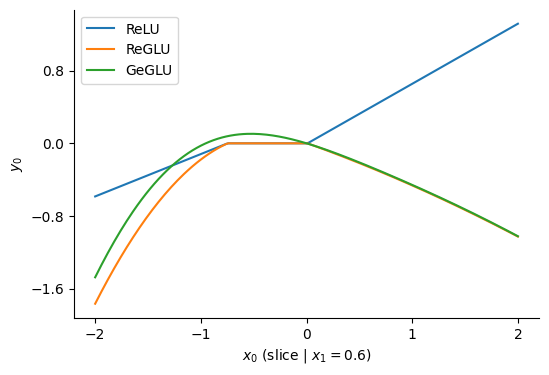
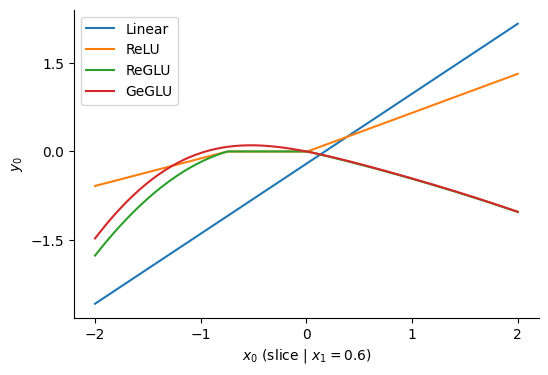
Publish

diff --git a/2024-04-transformers/article.html b/2024-04-transformers/article.html
@@ -253,11 +253,20 @@ q, k = embed_rotate(q, k, theta=p.rope_theta)</code></pre>
 <p>First, make two separate projections (dot products with trained parameter matrices) to get two 16384-vectors. One of these vectors, called the <em>gate</em> is passed through a nonlinear function called <em>gelu</em> that applies to each element. We'll treat the function as a black box, but to a first approximation, <code>gelu(x)</code> is quite close to <code>max(0, x)</code>. The gate and other vector are multiplied element-by-element, then another trained down-projection produces the result, a 2048-vector.</p>
 <details>
 <p><summary>Understanding the MLP</summary></p>
-<p>The MLP is a function from a 2048-vector representing a single token to a 2048-vector. The code shown above runs in parallel over the sequence axis, but unlike in attention, each token is processed independently. In this section, we'll build up the complex behaviour of Gemma's GeGLU MLP with a example based on 2-vectors (and a 3-vector inside the MLP).</p>
-<p><strong>A. ReLU</strong></p>
-<p>We start with a simplified version specified by the original transformer model, using the <em>rectified linear unit</em> or ReLU, <code>relu(a) = max(0, a)</code>:</p>
+<p>The MLP is a function from a 2048-vector representing a single token to a 2048-vector. The code shown above runs in parallel over the sequence axis, but unlike in attention, each token is processed independently. In this section, we'll build up the complex behaviour of Gemma's GeGLU MLP with a tiny example based on 2-vectors (and a 3-vector inside the MLP).</p>
+<p><em>Note that the acronym MLP stands for multi-layer perceptron, which is slightly old-fashioned language to talk about a chain of dot product (projections) and nonlinearities.</em></p>
+<p><strong>A. Linear</strong></p>
+<p>We start with a simple linear projection (dot product) from input to output, specified by a random $2 \times 2$ matrix. Each output component is a weighted sum of the inputs. The code is simply:</p>
+<pre><code class="language-python">y = x @ proj
+# x.shape = y.shape = (2,)</code></pre>
+<p>If we look at the first component of the output as a function of the inputs, we see:</p>
+<p><img alt="3D surface plot showing a flat slope." class="img-fluid" src="img/mlp_linear.png" /></p>
+<p>This is what a linear projection always looks like — a flat slope. It's certainly possible for this function to capture some interesting properties of the data, especially when it works on 2048-vectors rather than 2-vectors. However, it will become much more powerful with a few additions.</p>
+<p><strong>B. ReLU</strong></p>
+<p>The core idea of the MLP is that we wish to introduce <em>depth</em> into the model, a sequence of layers that transform the input in steps. However, the dot product has the property that a sequence of dot products can be reduced to a single dot product, i.e. there exists a <code>proj_b</code> such that <code>(x @ proj_1) @ proj_2 == x @ proj_b</code>.</p>
+<p>Sequences of dot products need to be broken up if they're going to be any more powerful than the simple linear projection we've already seen. The simplest way to do this is by transforming each element of the vector individually by an elementwise nonlinear function. One such function is the <em>rectified linear unit</em> or ReLU, <code>relu(a) = max(0, a)</code>:</p>
 <p><img alt="Plot of z = relu(a), with a flat portion below zero, then a linear portion above zero." class="img-fluid" src="img/relu.png" /></p>
-<p>Our ReLU MLP runs:</p>
+<p>Our ReLU MLP now runs:</p>
 <pre><code class="language-python">z = relu(x @ gate_proj)
 y = z @ down_proj
 # x.shape = y.shape = (2,)
@@ -267,14 +276,14 @@ y = z @ down_proj
 <p>In the top right off-white segment, we have all three components of <code>z</code> "active" (not saturating at zero), so in this region we have <code>z = x @ gate_proj</code> (the ReLU disappears). In the yellow region on the left, we know the blue component <code>z[2]</code> is saturating, so in this region we have <code>z = (x @ gate_proj) * [1, 1, 0]</code>, effectively removing that component. Within each coloured region, <code>z</code> is a linear function of <code>x</code>.</p>
 <p>Once we run the down-projection, each component of <code>y</code> is a dot product between <code>z</code> and a vector of trained weights, so the result remains piecewise-linear, transitioning at the boundaries we've just seen:</p>
 <p><img alt="3D surface plot showing a piecewise linear function of two input components. Each piece is coloured as per the pinwheel map above." class="img-fluid" src="img/mlp_relu.png" /></p>
-<p><strong>B. ReGLU</strong></p>
+<p><strong>C. ReGLU</strong></p>
 <p>These piecewise linear functions are surprisingly powerful already — the pretraining procedure can manipulate the transitions as well as the slopes of each region. But we might propose more power by making each region quadratic rather than linear. This idea gives us the <em>gated linear unit</em> (GLU):</p>
 <pre><code class="language-python">z = relu(x @ gate_proj) * (x @ up_proj)
 y = z @ down_proj</code></pre>
 <p>With the same <code>gate_proj</code>, the regions in this version are exactly the same as before; the only difference is that within each region, we have a quadratic function of <code>x</code>.</p>
 <p><img alt="3D surface plot showing a piecewise quadratic function of two input components." class="img-fluid" src="img/mlp_reglu.png" /></p>
 <p>Notice we can still have sharp edges at the region boundaries, but within each region the function is now curved.</p>
-<p><strong>C. GeGLU</strong></p>
+<p><strong>D. GeGLU</strong></p>
 <p>The final change is to substitute the Gaussian error linear unit (GELU) for the ReLU. The definition isn't too important for our discussion, just that it looks like a smoother version of ReLU:</p>
 <p><img alt="A plot of GELU(a) and ReLU(a). From a=-2 to a=2, GELU starts near zero, then drops before reaching z=0 when a=0 before climbing to approach z=a." class="img-fluid" src="img/gelu.png" /></p>
 <p>The idea of GELU is that it will allow us to build smoother functions than ReLU. I think this is done primarily for the sake of optimisation during training, but it might be that this gives better shapes of function for inference too.</p>
@@ -282,8 +291,8 @@ y = z @ down_proj</code></pre>
 <p><img alt="3D surface plot showing a smooth function of two input components." class="img-fluid" src="img/mlp_geglu.png" /></p>
 <p>Our approach of considering distinct regions is broken down by the GELU, which doesn't saturate at exactly zero, so does not create strict regions where components of <code>z</code> can be discarded. However, since the GELU is quite similar to ReLU, it's still somewhat reasonable to think in terms of piecewise quadratic regions, at least at a coarse enough scale.</p>
 <p><strong>Summary</strong></p>
-<p>A final figure might help review the journey we've been on, from ReLU -&gt; ReGLU -&gt; GeGLU. To make things legible, we're now looking at a slice through the surfaces we've seen so far, setting <code>x[1]</code> to a constant value, and just looking at how <code>y[0]</code> depends on <code>x[0]</code>.</p>
-<p><img alt="Three line plots, shown as x[0] varies from -2 to 2. The first, ReLU, is piecewise linear. The second, ReGLU, is piecewise quadratic with gradient discontinuities. The third, GeGLU, is smooth but still vaguely quadratic." class="img-fluid" src="img/mlp_slice.png" /></p>
+<p>A final figure might help review the journey we've been on, from Linear -&gt; ReLU -&gt; ReGLU -&gt; GeGLU. To make things legible, we're now looking at a slice through the surfaces we've seen so far, setting <code>x[1]</code> to a constant value, and just looking at how <code>y[0]</code> depends on <code>x[0]</code>.</p>
+<p><img alt="Four line plots, shown as x[0] varies from -2 to 2. The first, linear is linear. The second, ReLU, is piecewise linear. The third, ReGLU, is piecewise quadratic with gradient discontinuities. The fourth, GeGLU, is smooth but still vaguely quadratic." class="img-fluid" src="img/mlp_slice.png" /></p>
 <p>So Gemma's MLP, the GeGLU, can be thought of as a piecewise-quadratic function with smooth boundaries between the pieces. Where our example had 6 regions across a 2-vector input, Gemma's MLPs may have a vast number of regions (perhaps $10^{2000}$) across their 2048-vector input.</p>
 <p>The purpose of the MLP in Gemma is to use this function to independently transform each token, ready to form another attention query or ready to match against output tokens. Although MLPs cannot fuse information from across the context by themselves (which is the fundamental task of a language model), our experience shows that including the MLP makes attention much more efficient at doing exactly this.</p>
 </details>
